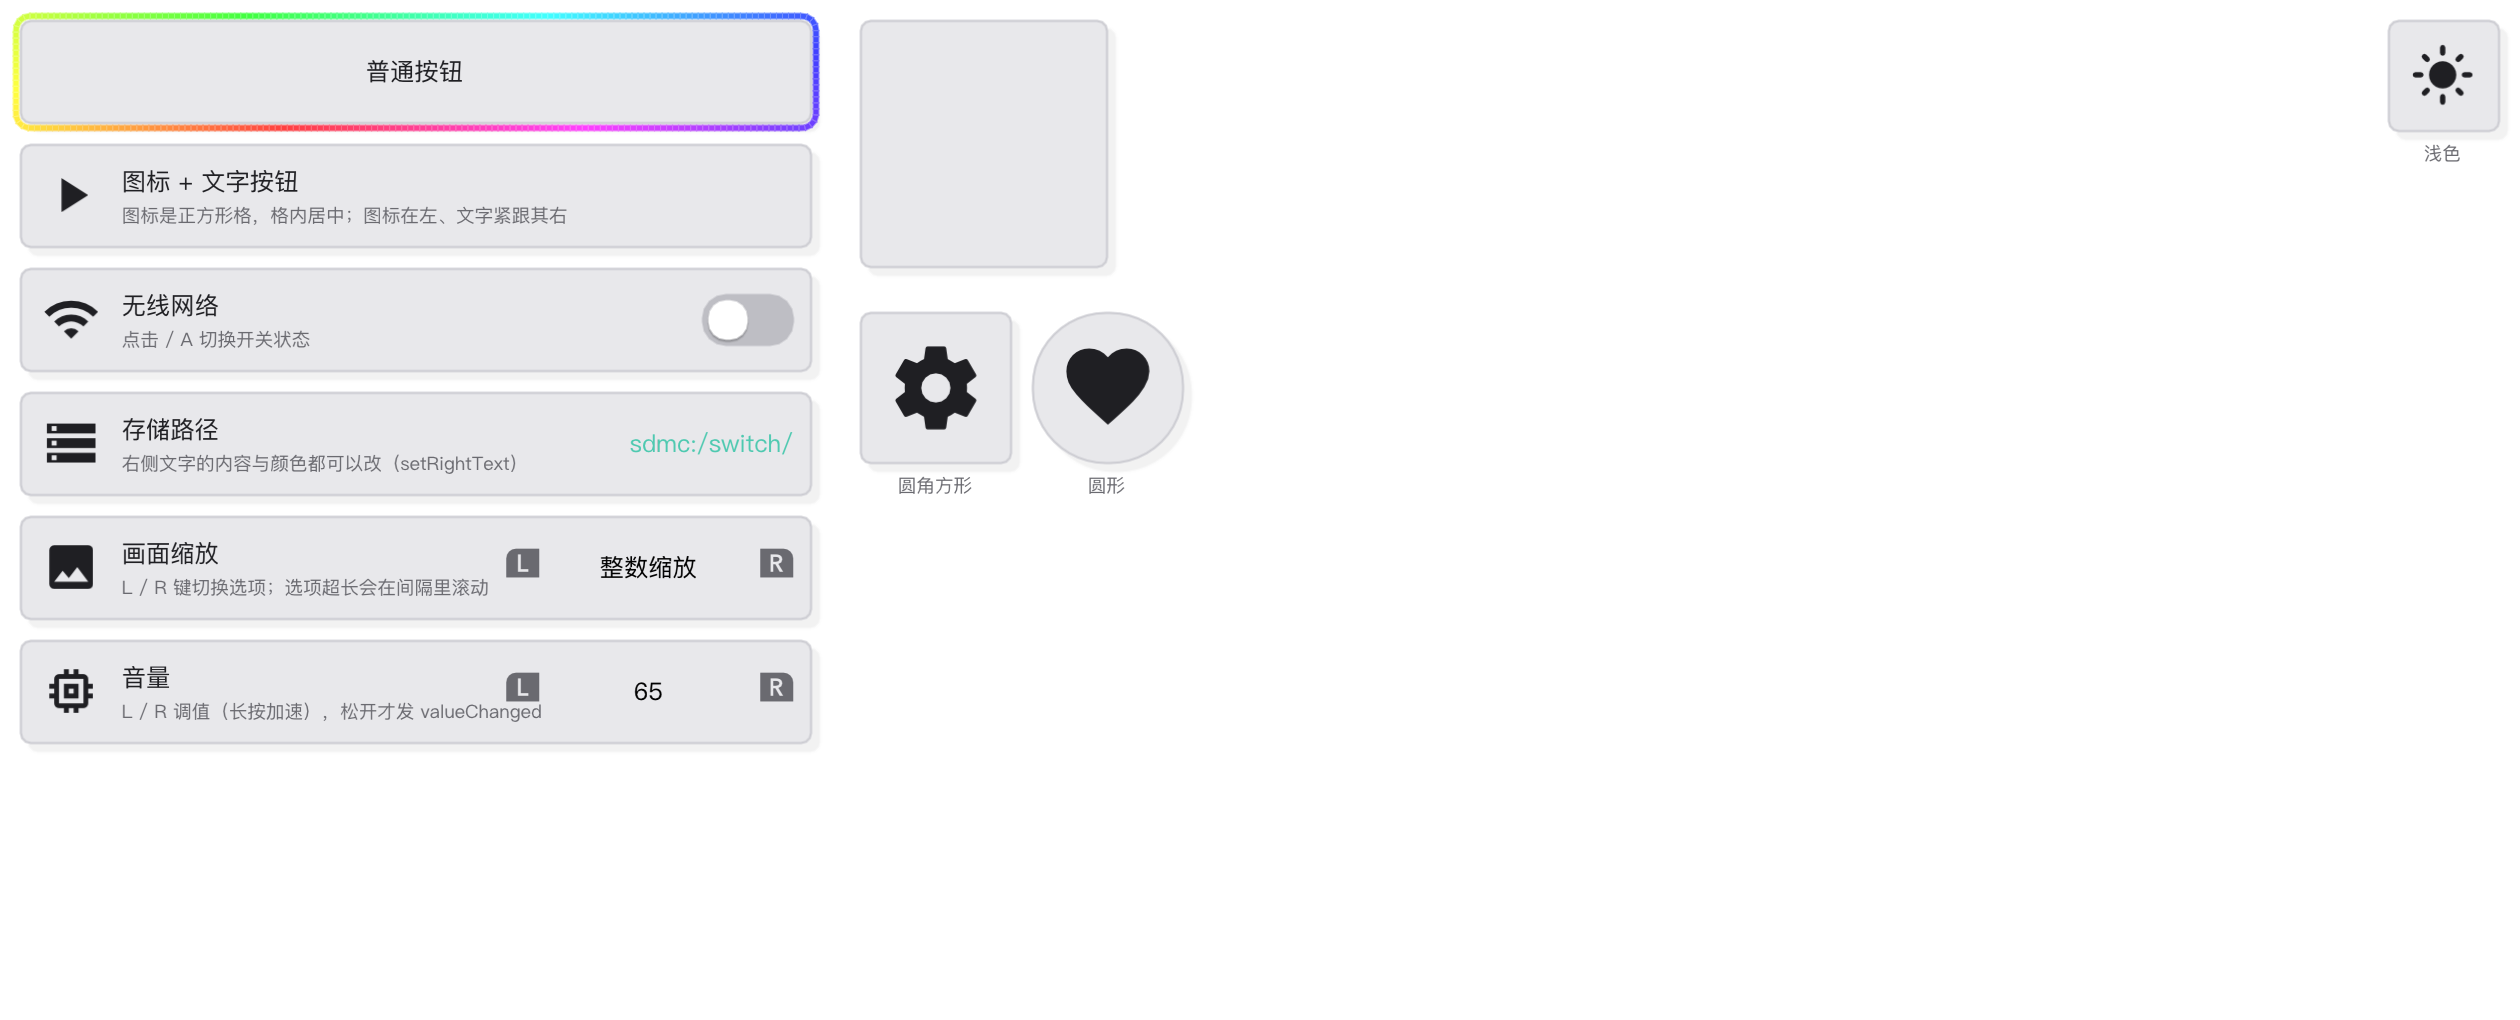
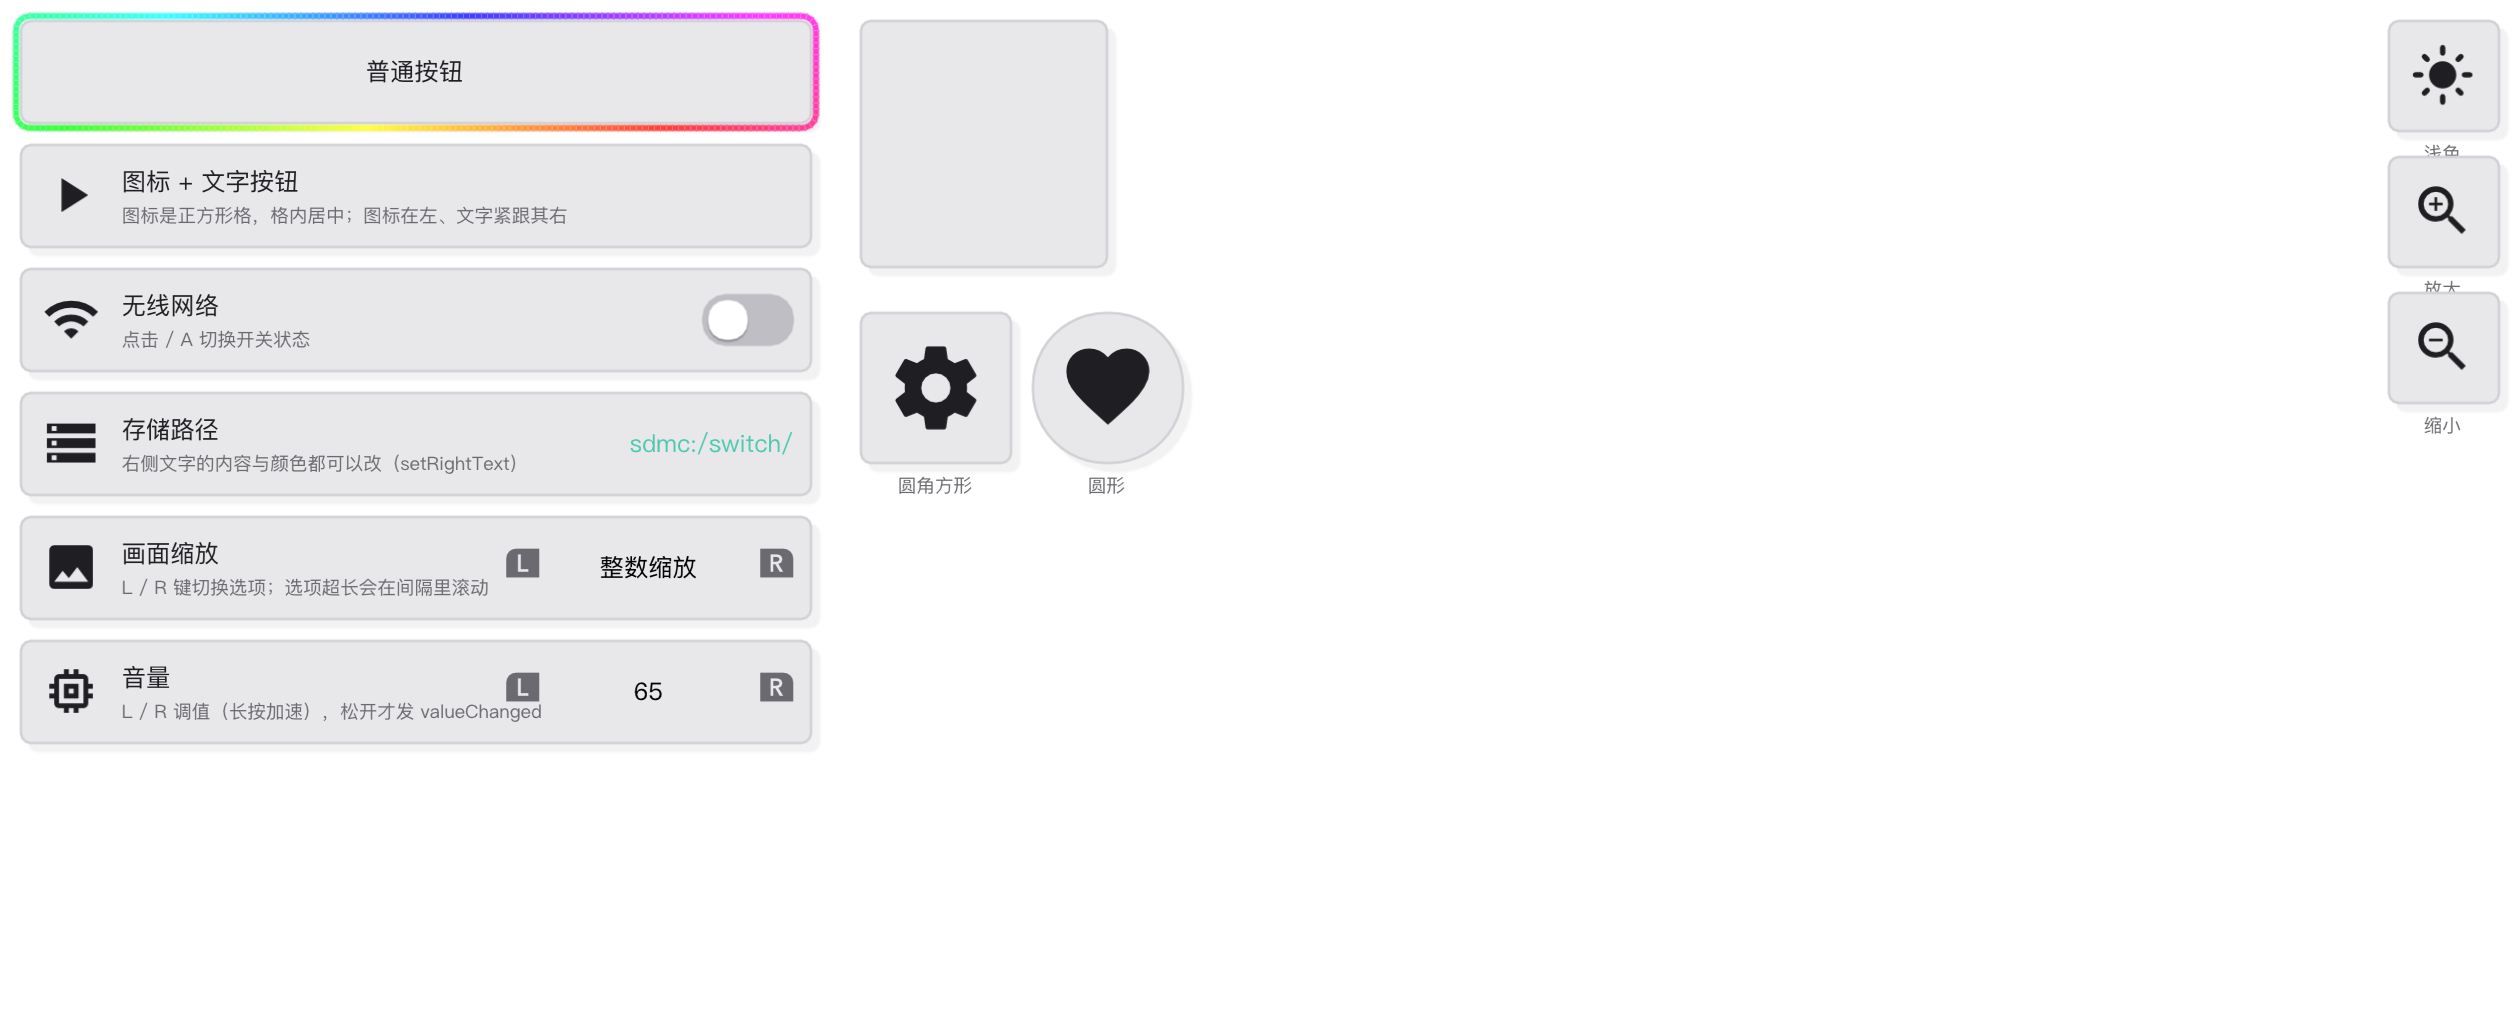
右侧控制列加「放大 / 缩小」两个按钮（UI 缩放）
机器上看着偏小，所以控制列扩成三个：浅色/深色主题、放大、缩小（都是 56px 圆角方形图标按钮，
间距 12px，贴右边缘 20px，每帧按画布宽度重排；说明行仍写在按钮外侧）。

- Backend：新增 SetUiZoom()/UiZoom()（0.5~3.0）。用户倍率乘进自动缩放：
  逻辑画布 = drawable / (自动缩放 × 倍率)，所以倍率变大 = 画布变小 = 界面变大；
  倍率变化时递增 DisplayGeneration，字体按新密度重建，放大后文字依然锐利。
- UiContext：SetUiZoom()/UiZoom() 转发。
- Icons：新增 ZoomIn(U+E8FF) / ZoomOut(U+E900)，启动字形自检 16 + 39 全部就绪。
- demo：台阶表 0.8/0.9/1.0/1.1/1.25/1.4/1.6/1.8/2.0（默认 1.0），放大/缩小按台阶走；
  另外加了 GUI_DEV_ZOOM=<倍率> 调试开关（以指定倍率启动）。

顺带修一个潜伏的框架 bug：RefreshIfDisplayChanged()（字体重建）原来在 NewImGuiFrame() 之后调用，
等于在 ImGui::NewFrame() 之后 ClearFonts() 换掉图集，不符合 imgui 1.92 的约束（分辨率变化/
手持↔底座切换会走到这条路）。现在挪到 PollEvents() 之后、NewImGuiFrame() 之前。

验证：
- 启动缩放 0.8 / 1.0 / 1.25 抓帧，第二个按钮物理高度 89 / 112 / 140 px，
  比值 1 : 1.258 : 1.573 对上 scale 1.6 : 2.0 : 2.5 的比值 1 : 1.25 : 1.5625；
- 运行时点按钮：缩小 ×2 → 倍率 0.9/0.8（ui_scale 2.0 → 1.8 → 1.6），放大 → 1.1（ui_scale 2.2）；
  连续缩放脚本跑 3 次退出码 0；
- mac Debug/Release + Switch 均编译通过；ctest 全绿；6 个 demo 退出码 0；快照已更新（含三个控制按钮）。

Changed region(s): [[0.0, 0.0, 0.3405, 0.152], [0.9595, 0.152, 1.0, 0.3951], [0.9595, 0.3951, 0.9905, 0.4255]]

diff --git a/demo.cpp b/demo.cpp
@@ -147,23 +147,24 @@ public:
             box_->fillWith(box_->hasFocus() ? Theme::kAccent : Theme::kBgWidget); // 显式设色后就不再跟随主题
         });
 
-        // 右侧控制列：从上往下排控制按钮，现在只有「浅色 / 深色主题」这一个
-        theme_button_ = Root().Emplace<IconButton>(Icons::Glyph(ThemeIcon()));
-        theme_button_->SetName("btn_theme");
-        theme_button_->setSide(kControlSize);
-        theme_button_->setShape(IconButtonShape::RoundedSquare);
-        theme_button_->setSubtitle(ThemeName());
-        theme_button_->moveTo(ControlX(), kControlTop);
-        buttons_.push_back(theme_button_); // 蹭一下「+ 键开关说明行」的逻辑
+        // 右侧控制列：从上往下排控制按钮（主题 / 放大 / 缩小）
+        theme_button_ = AddControl(Icons::Material::DarkMode, "btn_theme", ThemeName());
         connect(theme_button_, &IconButton::clicked, this, [this] { ToggleTheme(); });
+
+        zoom_in_ = AddControl(Icons::Material::ZoomIn, "btn_zoom_in", "放大");
+        connect(zoom_in_, &IconButton::clicked, this, [this] { StepZoom(+1); });
+
+        zoom_out_ = AddControl(Icons::Material::ZoomOut, "btn_zoom_out", "缩小");
+        connect(zoom_out_, &IconButton::clicked, this, [this] { StepZoom(-1); });
+
+        theme_button_->setIcon(Icons::Glyph(ThemeIcon()));
+        LayoutControls();
     }
 
-    // 右侧控制列贴着画布右边缘（窗口尺寸可变，所以每帧算一次 x）
+    // 右侧控制列贴着画布右边缘、从上往下排（窗口尺寸可变，所以每帧重排一次）
     void OnUpdate(float dt) override {
         (void)dt;
-        if (theme_button_ != nullptr) {
-            theme_button_->moveTo(ControlX(), kControlTop);
-        }
+        LayoutControls();
     }
 
     // 一键切浅色 / 深色：换调色板 + 约定样式，再让整棵组件树重新取色
@@ -173,6 +174,47 @@ public:
         RefreshTheme(); // 内部：Global::ApplyTheme() + 根节点装饰复位 + 整棵树重新取色
         theme_button_->setIcon(Icons::Glyph(ThemeIcon()));
         theme_button_->setSubtitle(ThemeName());
+    }
+
+    // 控制列里的按钮：图标 + 按钮外侧说明行，边长统一
+    IconButton* AddControl(gui_dev::Icons::Material icon, const char* name, const char* caption) {
+        IconButton* button = Root().Emplace<IconButton>(Icons::Glyph(icon));
+        button->SetName(name);
+        button->setSide(kControlSize);
+        button->setShape(IconButtonShape::RoundedSquare);
+        button->setSubtitle(caption);
+        controls_[control_count_++] = button;
+        buttons_.push_back(button); // 蹭一下「+ 键开关说明行」的逻辑
+        return button;
+    }
+
+    void LayoutControls() {
+        float y = kControlTop;
+        for (int i = 0; i < control_count_; ++i) {
+            controls_[i]->moveTo(ControlX(), y);
+            y += kControlSize + kControlGap;
+        }
+    }
+
+    // 放大 / 缩小：按台阶表调整 UI 缩放（后端的用户倍率，乘在自动缩放之上）
+    void StepZoom(int direction) {
+        int index = ZoomIndex() + direction;
+        index = index < 0 ? 0 : (index >= kZoomCount ? kZoomCount - 1 : index);
+        ui().SetUiZoom(kZoomSteps[index]); // 逻辑画布 = drawable / (自动缩放 * zoom) → 界面随之变大变小
+    }
+
+    int ZoomIndex() const {
+        const float current = ui().UiZoom();
+        int best = 0;
+        float best_delta = 1e9f;
+        for (int i = 0; i < kZoomCount; ++i) {
+            const float delta = kZoomSteps[i] > current ? kZoomSteps[i] - current : current - kZoomSteps[i];
+            if (delta < best_delta) {
+                best_delta = delta;
+                best = i;
+            }
+        }
+        return best;
     }
 
     // + 键：一键开关所有按钮的说明行（验证「是否显示说明」接口，开关都保持文字块垂直居中）
@@ -199,9 +241,19 @@ private:
     }
     static const char* ThemeName() { return Theme::IsLight() ? "浅色" : "深色"; }
 
+    // UI 缩放台阶：0.8 起步到 2.0，中间 1.0 是「不额外缩放」
+    static constexpr int kZoomCount = 9;
+    static constexpr float kZoomSteps[kZoomCount] = {0.8f, 0.9f, 1.0f, 1.1f, 1.25f, 1.4f, 1.6f, 1.8f, 2.0f};
+    static constexpr int kControlMax = 8;
+    static constexpr float kControlGap = 12.0f;
+
     std::vector<Button*> buttons_;
     Box* box_ = nullptr;
     IconButton* theme_button_ = nullptr;
+    IconButton* zoom_in_ = nullptr;
+    IconButton* zoom_out_ = nullptr;
+    IconButton* controls_[kControlMax] = {};
+    int control_count_ = 0;
     bool subtitle_on_ = true;
 };
 
@@ -252,6 +304,13 @@ public:
 
         if (const char* value = std::getenv("GUI_DEV_EXIT_AFTER")) {
             exit_after_ = std::atoi(value);
+        }
+        // 调试：GUI_DEV_ZOOM=1.25 直接以指定缩放启动（右侧控制列的放大/缩小按钮也能改）
+        if (const char* zoom = std::getenv("GUI_DEV_ZOOM")) {
+            const float value = static_cast<float>(std::atof(zoom));
+            if (value > 0.0f) {
+                ui.SetUiZoom(value);
+            }
         }
     }
 

diff --git a/framework/platform/backends/sdl2/Sdl2Backend.cpp b/framework/platform/backends/sdl2/Sdl2Backend.cpp
@@ -174,13 +174,27 @@ float Sdl2Backend::ComputeUiScale() const {
     const float by_height = static_cast<float>(h) / kDesignHeight;
     const float by_width = static_cast<float>(w) / kDesignWidth;
     float scale = by_height < by_width ? by_height : by_width;
-    if (scale < 0.4f) {
-        scale = 0.4f;
+    // 用户缩放（「放大 / 缩小」按钮）乘在这里：逻辑画布 = drawable / scale，
+    // 所以 zoom 变大 = 逻辑画布变小 = 界面变大。
+    scale *= ui_zoom_;
+    if (scale < 0.3f) {
+        scale = 0.3f;
     }
-    if (scale > 4.0f) {
-        scale = 4.0f;
+    if (scale > 6.0f) {
+        scale = 6.0f;
     }
     return scale;
+}
+
+void Sdl2Backend::SetUiZoom(float zoom) {
+    const float next = zoom < 0.5f ? 0.5f : (zoom > 3.0f ? 3.0f : zoom);
+    if (next == ui_zoom_) {
+        return;
+    }
+    ui_zoom_ = next;
+    ui_scale_ = ComputeUiScale();
+    // 逻辑画布和字体光栅化密度都变了：递增 generation 让上层重建字体
+    ++display_generation_;
 }
 
 void Sdl2Backend::Shutdown() {

diff --git a/framework/platform/Backend.h b/framework/platform/Backend.h
@@ -135,6 +135,12 @@ public:
     // 逻辑尺寸 = 设计基准分辨率，UI 布局按它排版，实现负责缩放。
     virtual float UiScale() const = 0;
 
+    // 用户缩放倍率：在自动缩放之上再乘一次，给 UI 里的「放大 / 缩小」按钮用。
+    // 1.0 = 不额外缩放；实现要让逻辑画布 = drawable / (自动缩放 * zoom)，
+    // 并按新密度重建字体，否则放大后文字会糊。
+    virtual void SetUiZoom(float zoom) { (void)zoom; }
+    virtual float UiZoom() const { return 1.0f; }
+
     // 驱动/后端描述，例如 "SDL 2.32.72 + metal"。用于诊断与课程展示。
     // 返回的是后端内部持有的字符串（Init 时构建一次），调用方不需要释放、也不产生分配。
     virtual const char* DriverName() const = 0;

diff --git a/framework/platform/backends/sdl2/Sdl2Backend.h b/framework/platform/backends/sdl2/Sdl2Backend.h
@@ -37,6 +37,8 @@ public:
     void GetDrawableSize(int& w, int& h) const override;
     std::uint32_t DisplayGeneration() const override { return display_generation_; }
     float UiScale() const override { return ui_scale_; }
+    void SetUiZoom(float zoom) override;
+    float UiZoom() const override { return ui_zoom_; }
     const char* DriverName() const override { return driver_name_.c_str(); }
 
     std::string ResolveAssetPath(const char* relative_path) const override;
@@ -71,6 +73,7 @@ private:
     int last_drawable_w_ = 0;
     int last_drawable_h_ = 0;
     float ui_scale_ = 1.0f;
+    float ui_zoom_ = 1.0f; // 用户缩放（放大/缩小按钮），乘在自动缩放之上
 
     BackendConfig cfg_{};
     // Init 时构建一次（避免每帧分配）

diff --git a/framework/ui/UiContext.h b/framework/ui/UiContext.h
@@ -52,6 +52,9 @@ public:
     const PadState& Pad() const { return input_.pad; }
     float DeltaTime() const { return backend_.DeltaTime(); }
     std::uint32_t DisplayGeneration() const { return backend_.DisplayGeneration(); }
+    // 用户缩放（放大 / 缩小按钮）：转给后端，切换后字体密度会跟着重建
+    void SetUiZoom(float zoom) { backend_.SetUiZoom(zoom); }
+    float UiZoom() const { return backend_.UiZoom(); }
 
     // ---- 上一帧的渲染统计（在 ImGui::Render() 之后采集，供 demo/性能面板用）----
     int LastDrawCalls() const { return last_draw_calls_; }

diff --git a/framework/ui/UiContext.cpp b/framework/ui/UiContext.cpp
@@ -133,7 +133,10 @@ UiContext::~UiContext() = default;
 
 void UiContext::BeginFrame() {
     input_ = InputFrame{};
-    backend_.PollEvents(input_);
+    backend_.PollEvents(input_); // 分辨率/缩放变化在这里检测出来
+    // 字体必须在 ImGui::NewFrame() 之前重建：1.92 的动态字形在这一帧里正被使用，
+    // 帧中途 ClearFonts() 会把渲染器手里的图集换掉（表现为随机崩溃/花屏）。
+    RefreshIfDisplayChanged();
     backend_.NewImGuiFrame();
 }
 

diff --git a/framework/ui/Icons.cpp b/framework/ui/Icons.cpp
@@ -104,6 +104,8 @@ constexpr MaterialEntry kMaterialTable[] = {
     {Material::HelpOutline, "help_outline", 0xE8FD},
     {Material::LightMode, "light_mode", 0xE518},
     {Material::DarkMode, "dark_mode", 0xE51C},
+    {Material::ZoomIn, "zoom_in", 0xE8FF},
+    {Material::ZoomOut, "zoom_out", 0xE900},
 };
 
 static_assert(sizeof(kMaterialTable) / sizeof(kMaterialTable[0]) == kMaterialCount,

diff --git a/framework/ui/Icons.h b/framework/ui/Icons.h
@@ -94,6 +94,8 @@ enum class Material : std::uint8_t {
     HelpOutline,
     LightMode,
     DarkMode,
+    ZoomIn,
+    ZoomOut,
     Count,
 };
 

diff --git a/README.md b/README.md
@@ -148,7 +148,7 @@ cmake --preset mac && cmake --build --preset mac
 ### 现在的 demo 长什么样
 
 左列 6 个行内按钮 + 右上角一个可聚焦 Box + 右下角两个纯图标按钮（圆角正方形 / 圆形）
-+ **窗口最右侧的控制列**（从上往下排控制按钮，现在只有一个「浅色 / 深色主题」）：
++ **窗口最右侧的控制列**（从上往下排控制按钮：主题 / 放大 / 缩小）：
 
 ```cpp
 // demo.cpp
@@ -166,13 +166,32 @@ void OnBuild() override {
     box_ = Root().Emplace<Box>("box");               // 可聚焦容器
     box_->moveTo(440.0f, 20.0f);
 
-    // 右侧控制列：贴右边缘 20px，从上往下排；第一个是主题切换
-    theme_button_ = Root().Emplace<IconButton>(Icons::Glyph(ThemeIcon()));
-    theme_button_->setSide(56.0f);
-    theme_button_->setSubtitle(ThemeName());         // 说明行在按钮外面显示当前主题
+    // 右侧控制列：贴右边缘 20px，从上往下排（主题 / 放大 / 缩小）
+    theme_button_ = AddControl(Icons::Material::DarkMode, "btn_theme", ThemeName());
     connect(theme_button_, &IconButton::clicked, this, [this] { ToggleTheme(); });
+
+    zoom_in_ = AddControl(Icons::Material::ZoomIn, "btn_zoom_in", "放大");
+    connect(zoom_in_, &IconButton::clicked, this, [this] { StepZoom(+1); });
+
+    zoom_out_ = AddControl(Icons::Material::ZoomOut, "btn_zoom_out", "缩小");
+    connect(zoom_out_, &IconButton::clicked, this, [this] { StepZoom(-1); });
 }
 ```
+
+### UI 缩放（放大 / 缩小按钮）
+
+界面的物理缩放 = 后端自动缩放 × 用户倍率。自动缩放由分辨率算（`min(h/720, w/1280)`），
+用户倍率由右侧控制列的「放大 / 缩小」按钮调，逻辑画布 = `drawable / (自动缩放 × 倍率)`，
+所以倍率变大 = 画布变小 = 界面变大。倍率改变后会递增 `DisplayGeneration`，
+字体按新密度重建（放大后文字依然锐利）。
+
+```cpp
+ui.SetUiZoom(1.25f);          // 0.5..3.0，1.0 = 不额外缩放
+ui.UiZoom();                  // 当前倍率
+GUI_DEV_ZOOM=1.25 ./build/mac/gui_dev_demo   # 调试：以指定倍率启动
+```
+
+台阶表在 `demo.cpp`：`0.8 / 0.9 / 1.0 / 1.1 / 1.25 / 1.4 / 1.6 / 1.8 / 2.0`，默认 1.0。
 
 `Box` 提供的链式设置：`moveTo / resize / fillWith / roundCorners / outline / dropShadow`
 （名字不能叫 `border` / `shadow` —— 那是 `Widget` 的成员变量）。
@@ -846,6 +865,18 @@ git -C third_party/imgui fetch --tags     # 升级 imgui 用
   关掉说明行后主文字就停在偏上 8px 的位置；现在按文字块自己的高度居中。
   实测（说明行关）：无线网络主文字墨迹中心 169.5 / 存储路径 231.5 vs 按钮中心 170 / 232；
   普通按钮（无说明行）主文字墨迹中心 y=45.5、x=217 vs 按钮中心 (46, 218)。
+- 已确认（右侧控制列扩到三个 + UI 缩放）：控制列现在是「浅色/深色主题 / 放大 / 缩小」（56px 一列、
+  间距 12px，贴右边缘 20px，每帧按画布宽度重排）。缩放实现：`Backend::SetUiZoom()`（0.5~3.0）
+  把用户倍率乘进自动缩放，逻辑画布 = drawable / (自动缩放 × 倍率)，倍率变化时递增 `DisplayGeneration`
+  让字体按新密度重建；`UiContext::SetUiZoom/UiZoom` 转发，demo 里是 0.8~2.0 的台阶表。
+  验证：以 `GUI_DEV_ZOOM=0.8 / 1.0 / 1.25` 启动抓帧，第二个按钮的物理高度 89 / 112 / 140 px，
+  比值 1 : 1.258 : 1.573 与 scale 1.6 : 2.0 : 2.5 的比值 1 : 1.25 : 1.5625 一致；
+  运行时点按钮的路径逐帧核对（缩小 ×2 → 倍率 0.9 / 0.8，ui_scale 2.0 → 1.8 → 1.6；
+  放大 → 1.1 / ui_scale 2.2），大量连续缩放脚本跑 3 次退出码 0。
+- 顺带修掉一个潜伏的框架 bug：`RefreshIfDisplayChanged()`（字体重建）原来在
+  `backend_.NewImGuiFrame()` **之后**调用，等于在 `ImGui::NewFrame()` 之后 `ClearFonts()` 换掉图集，
+  这不符合 imgui 1.92 的约束（分辨率变化/手持↔底座切换时会走到这条路）。现在它挪到
+  `PollEvents()` 之后、`NewImGuiFrame()` 之前。
 - 已确认（主题切换 + 右侧控制列）：调色板改成运行时可切的角色色，`Theme::SetMode(Light/Dark)` +
   `Theme::ApplyToImGui()` + `Page::RefreshTheme()`（递归 `Widget::OnThemeChanged()`）；组件默认色跟随主题，
   用 setter 显式设过的颜色固定。窗口最右侧加了从上往下排的控制列，第一个是「浅色 / 深色主题」图标按钮
